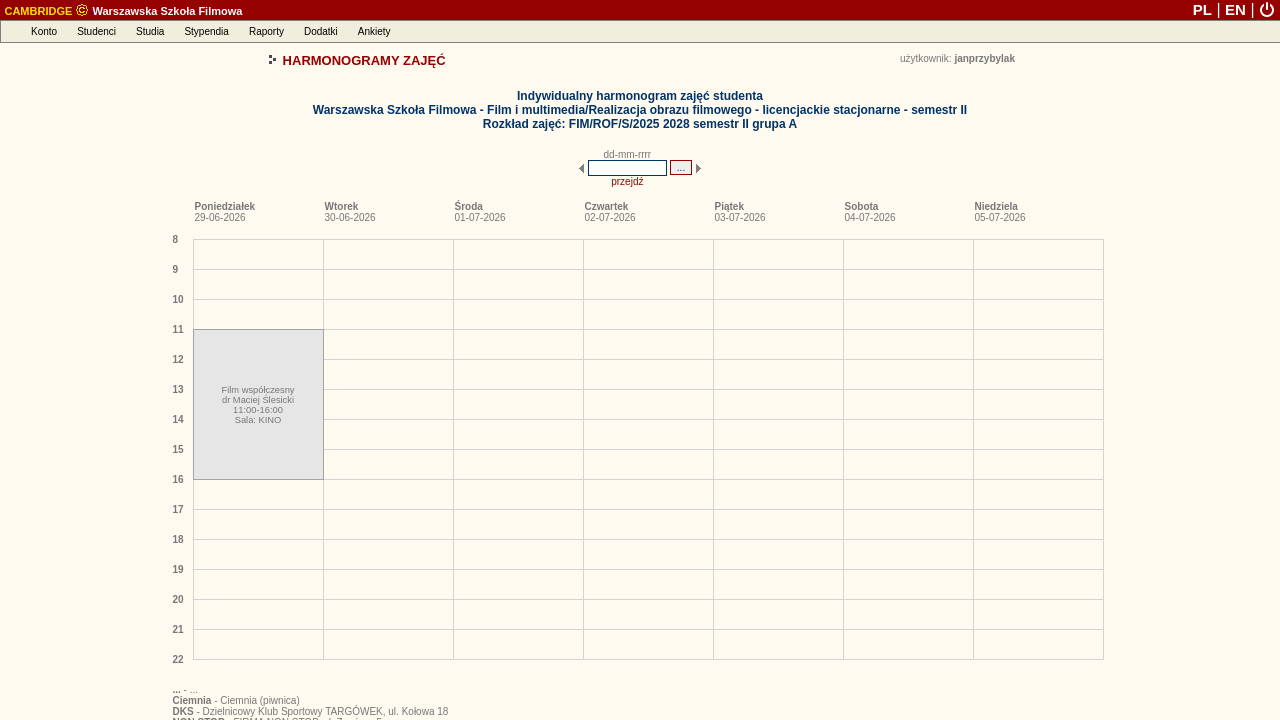
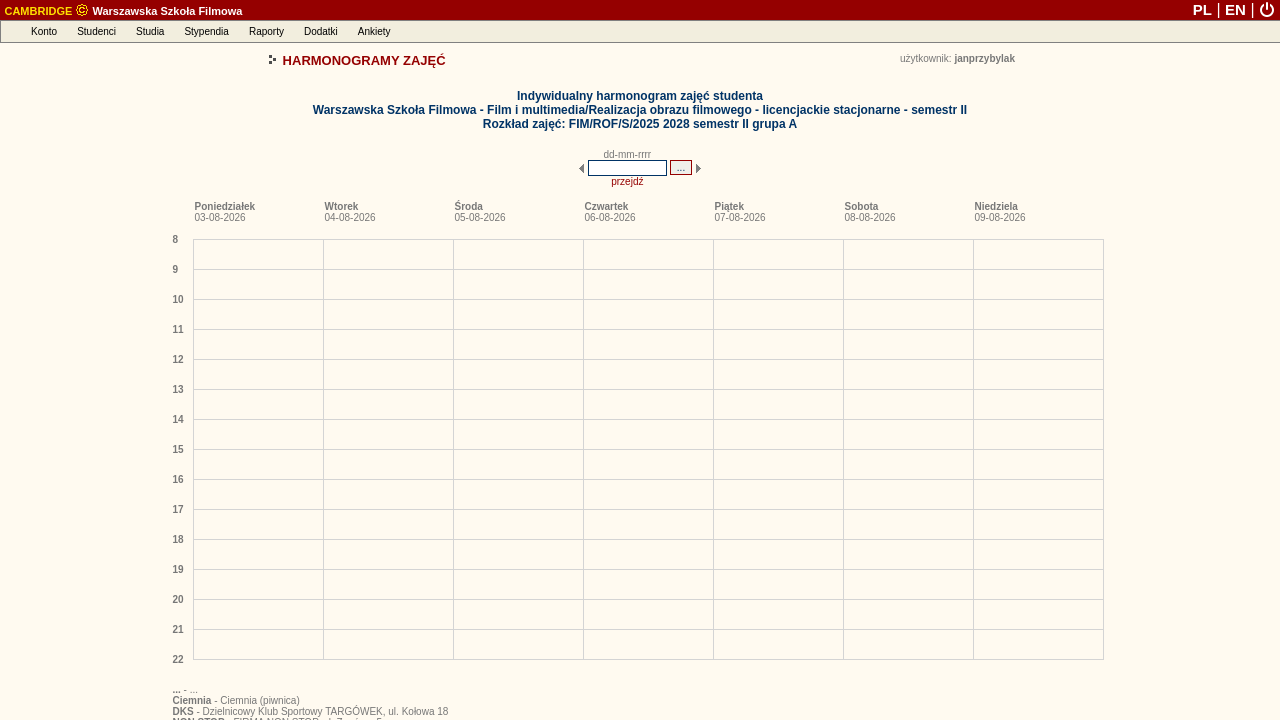
deploy: 8388f10947971c2f889917b94371ad6a4cd86213

Changed region(s): [[0.125, 0.4583, 0.25, 0.6722]]

diff --git a/debug_harmonogram_page.html b/debug_harmonogram_page.html
@@ -163,8 +163,8 @@
 
 
 
-<link rel="stylesheet" type="text/css" href="/palio/html.run?_Instance=cambridge&amp;_PageID=4&amp;_SessionID=1698935&amp;_SessionKey=1306521212&amp;ZoomView=&amp;DisplayMode=&amp;_CheckSum=-1760309600">
-<script language="javascript" type="text/javascript" src="/palio/html.run?_Instance=cambridge&amp;_PageID=5&amp;_SessionID=1698935&amp;_SessionKey=1306521212&amp;_CheckSum=-224332376"></script>
+<link rel="stylesheet" type="text/css" href="/palio/html.run?_Instance=cambridge&amp;_PageID=4&amp;_SessionID=1699066&amp;_SessionKey=678704164&amp;ZoomView=&amp;DisplayMode=&amp;_CheckSum=1441676194">
+<script language="javascript" type="text/javascript" src="/palio/html.run?_Instance=cambridge&amp;_PageID=5&amp;_SessionID=1699066&amp;_SessionKey=678704164&amp;_CheckSum=1323799240"></script>
 
 
 
@@ -354,9 +354,9 @@ CambridgeMenuBar = new jsDOMenuBar("absolute", true)
 
 AccountMenu=new jsDOMenu(200, "", "absolute", false);
 
-AccountMenu.addMenuItem(new menuItem("Zmiana hasła", "", "/palio/html.run?_Instance=cambridge&amp;_PageID=11&amp;_SessionID=1698935&amp;_SessionKey=1306521212&amp;_CheckSum=1804701465"));
+AccountMenu.addMenuItem(new menuItem("Zmiana hasła", "", "/palio/html.run?_Instance=cambridge&amp;_PageID=11&amp;_SessionID=1699066&amp;_SessionKey=678704164&amp;_CheckSum=-273316041"));
 
-  AccountMenu.addMenuItem(new menuItem("Komunikator", "", "/palio/html.run?_Instance=cambridge&amp;_PageID=180&amp;_SessionID=1698935&amp;_SessionKey=1306521212&amp;_CheckSum=999741684"));
+  AccountMenu.addMenuItem(new menuItem("Komunikator", "", "/palio/html.run?_Instance=cambridge&amp;_PageID=180&amp;_SessionID=1699066&amp;_SessionKey=678704164&amp;_CheckSum=1363285500"));
 
 
 
@@ -369,7 +369,7 @@ AccountMenu.addMenuItem(new menuItem("Yammer", "", "https://www.yammer.com/onlin
 
 AccountMenu.addMenuItem(new menuItem("-"));
 
-AccountMenu.addMenuItem(new menuItem("Wylogowanie", "", "https://student.szkolafilmowa.pl/palio/html.run?_Instance=cambridge&amp;_PageID=10012&amp;_Action=Logout&amp;_SessionID=1698935&amp;_SessionKey=1306521212"));
+AccountMenu.addMenuItem(new menuItem("Wylogowanie", "", "https://student.szkolafilmowa.pl/palio/html.run?_Instance=cambridge&amp;_PageID=10012&amp;_Action=Logout&amp;_SessionID=1699066&amp;_SessionKey=678704164"));
 
 CambridgeMenuBar.addMenuBarItem(new menuBarItem("Konto", AccountMenu));
 
@@ -382,12 +382,12 @@ StudentsMenu=new jsDOMenu(320, "", "absolute", false);
 
 
 
-StudentsMenu.addMenuItem(new menuItem("Moje dane", "", "/palio/html.run?_Instance=cambridge&amp;_PageID=185&amp;_SessionID=1698935&amp;_SessionKey=1306521212&amp;_CheckSum=-63419249"));
+StudentsMenu.addMenuItem(new menuItem("Moje dane", "", "/palio/html.run?_Instance=cambridge&amp;_PageID=185&amp;_SessionID=1699066&amp;_SessionKey=678704164&amp;_CheckSum=220611329"));
 
 
 
 
-StudentsMenu.addMenuItem(new menuItem("Moje indeksy", "", "/palio/html.run?_Instance=cambridge&amp;_PageID=186&amp;_SessionID=1698935&amp;_SessionKey=1306521212&amp;_CheckSum=-1994038354"));
+StudentsMenu.addMenuItem(new menuItem("Moje indeksy", "", "/palio/html.run?_Instance=cambridge&amp;_PageID=186&amp;_SessionID=1699066&amp;_SessionKey=678704164&amp;_CheckSum=851069954"));
 
 
 
@@ -426,7 +426,7 @@ StudiesMenu=new jsDOMenu(250, "", "absolute", false);
 
 
 
-StudiesMenu.addMenuItem(new menuItem("Moje plany studiów", "", "/palio/html.run?_Instance=cambridge&amp;_PageID=258&amp;_SessionID=1698935&amp;_SessionKey=1306521212&amp;_CheckSum=1994520328"));
+StudiesMenu.addMenuItem(new menuItem("Moje plany studiów", "", "/palio/html.run?_Instance=cambridge&amp;_PageID=258&amp;_SessionID=1699066&amp;_SessionKey=678704164&amp;_CheckSum=-405740184"));
 
 
 
@@ -434,13 +434,13 @@ StudiesMenu.addMenuItem(new menuItem("Moje plany studiów", "", "/palio/html.run
 
 
 
-StudiesMenu.addMenuItem(new menuItem("Harmonogramy zajęć", "", "/palio/html.run?_Instance=cambridge&amp;_PageID=95&amp;_SessionID=1698935&amp;_SessionKey=1306521212&amp;_CheckSum=619991453"));
+StudiesMenu.addMenuItem(new menuItem("Harmonogramy zajęć", "", "/palio/html.run?_Instance=cambridge&amp;_PageID=95&amp;_SessionID=1699066&amp;_SessionKey=678704164&amp;_CheckSum=-311532493"));
 
-StudiesMenu.addMenuItem(new menuItem("Harmonogramy moich zajęć", "", "/palio/html.run?_Instance=cambridge&amp;_PageID=191&amp;_SessionID=1698935&amp;_SessionKey=1306521212&amp;_CheckSum=-650527532"));
+StudiesMenu.addMenuItem(new menuItem("Harmonogramy moich zajęć", "", "/palio/html.run?_Instance=cambridge&amp;_PageID=191&amp;_SessionID=1699066&amp;_SessionKey=678704164&amp;_CheckSum=63125020"));
 
-StudiesMenu.addMenuItem(new menuItem("Harmonogramy innych zajęć", "", "/palio/html.run?_Instance=cambridge&amp;_PageID=248&amp;_SessionID=1698935&amp;_SessionKey=1306521212&amp;_CheckSum=1714170439"));
+StudiesMenu.addMenuItem(new menuItem("Harmonogramy innych zajęć", "", "/palio/html.run?_Instance=cambridge&amp;_PageID=248&amp;_SessionID=1699066&amp;_SessionKey=678704164&amp;_CheckSum=1524878921"));
 
-StudiesMenu.addMenuItem(new menuItem("Harmonogramy zajętości sal", "", "/palio/html.run?_Instance=cambridge&amp;_PageID=269&amp;_SessionID=1698935&amp;_SessionKey=1306521212&amp;_CheckSum=344251112"));
+StudiesMenu.addMenuItem(new menuItem("Harmonogramy zajętości sal", "", "/palio/html.run?_Instance=cambridge&amp;_PageID=269&amp;_SessionID=1699066&amp;_SessionKey=678704164&amp;_CheckSum=-1705900664"));
 
 
 
@@ -470,9 +470,9 @@ CambridgeMenuBar.addMenuBarItem(new menuBarItem("Studia", StudiesMenu));
 ScholarshipsMenu=new jsDOMenu(230, "", "absolute", false);
 
 
-ScholarshipsMenu.addMenuItem(new menuItem("Moje stypendia", "", "/palio/html.run?_Instance=cambridge&amp;_PageID=187&amp;_SessionID=1698935&amp;_SessionKey=1306521212&amp;_CheckSum=370309837"));
+ScholarshipsMenu.addMenuItem(new menuItem("Moje stypendia", "", "/palio/html.run?_Instance=cambridge&amp;_PageID=187&amp;_SessionID=1699066&amp;_SessionKey=678704164&amp;_CheckSum=1481528579"));
 
-ScholarshipsMenu.addMenuItem(new menuItem("Mój numer rachunku", "", "/palio/html.run?_Instance=cambridge&amp;_PageID=380&amp;_SessionID=1698935&amp;_SessionKey=1306521212&amp;_CheckSum=1201565618"));
+ScholarshipsMenu.addMenuItem(new menuItem("Mój numer rachunku", "", "/palio/html.run?_Instance=cambridge&amp;_PageID=380&amp;_SessionID=1699066&amp;_SessionKey=678704164&amp;_CheckSum=1923985278"));
 
 
 
@@ -482,9 +482,9 @@ ScholarshipsMenu.addMenuItem(new menuItem("Mój numer rachunku", "", "/palio/htm
 ScholarshipsMenu.addMenuItem(new menuItem("-"));
 
 
-ScholarshipsMenu.addMenuItem(new menuItem("Fundusze stypendialne", "", "/palio/html.run?_Instance=cambridge&amp;_PageID=54&amp;_SessionID=1698935&amp;_SessionKey=1306521212&amp;_CheckSum=1429211002"));
+ScholarshipsMenu.addMenuItem(new menuItem("Fundusze stypendialne", "", "/palio/html.run?_Instance=cambridge&amp;_PageID=54&amp;_SessionID=1699066&amp;_SessionKey=678704164&amp;_CheckSum=-1809449290"));
 
-ScholarshipsMenu.addMenuItem(new menuItem("Rodzaje stypendiów", "", "/palio/html.run?_Instance=cambridge&amp;_PageID=55&amp;_SessionID=1698935&amp;_SessionKey=1306521212&amp;_CheckSum=-501408103"));
+ScholarshipsMenu.addMenuItem(new menuItem("Rodzaje stypendiów", "", "/palio/html.run?_Instance=cambridge&amp;_PageID=55&amp;_SessionID=1699066&amp;_SessionKey=678704164&amp;_CheckSum=-1178990665"));
 
 
 
@@ -495,7 +495,7 @@ CambridgeMenuBar.addMenuBarItem(new menuBarItem("Stypendia", ScholarshipsMenu));
 ReportsMenu=new jsDOMenu(200, "", "absolute", false);
 
 
-ReportsMenu.addMenuItem(new menuItem("Generowanie raportów", "", "/palio/html.run?_Instance=cambridge&amp;_PageID=68&amp;_SessionID=1698935&amp;_SessionKey=1306521212&amp;_CheckSum=-1717948233"));
+ReportsMenu.addMenuItem(new menuItem("Generowanie raportów", "", "/palio/html.run?_Instance=cambridge&amp;_PageID=68&amp;_SessionID=1699066&amp;_SessionKey=678704164&amp;_CheckSum=-1218233895"));
 
 
 
@@ -505,7 +505,7 @@ CambridgeMenuBar.addMenuBarItem(new menuBarItem("Raporty", ReportsMenu));
 
 AdditionalsMenu=new jsDOMenu(200, "", "absolute", false);
 
-AdditionalsMenu.addMenuItem(new menuItem("Forum internetowe", "", "/palio/html.run?_Instance=cambridge&amp;_PageID=8001&amp;_SessionID=1698935&amp;_SessionKey=1306521212&amp;_CheckSum=1833455840"));
+AdditionalsMenu.addMenuItem(new menuItem("Forum internetowe", "", "/palio/html.run?_Instance=cambridge&amp;_PageID=8001&amp;_SessionID=1699066&amp;_SessionKey=678704164&amp;_CheckSum=281800848"));
 
 
 
@@ -539,7 +539,7 @@ PollsMenu=new jsDOMenu(225, "", "absolute", false);
 
 
 
-PollsMenu.addMenuItem(new menuItem("Wypełnianie ankiet", "", "/palio/html.run?_Instance=cambridge&amp;_PageID=227&amp;_SessionID=1698935&amp;_SessionKey=1306521212&amp;_CheckSum=-1210877530"));
+PollsMenu.addMenuItem(new menuItem("Wypełnianie ankiet", "", "/palio/html.run?_Instance=cambridge&amp;_PageID=227&amp;_SessionID=1699066&amp;_SessionKey=678704164&amp;_CheckSum=460691210"));
 
 
 CambridgeMenuBar.addMenuBarItem(new menuBarItem("Ankiety", PollsMenu));
@@ -576,7 +576,7 @@ CambridgeMenuBar.moveTo(0,20);
 <table width="100%" border="0" cellspacing="0" cellpadding="0" align="center">
 <tbody><tr class="top_belt">
 
-<td align="left" height="20"><b>&nbsp;<a class="belt" href="/palio/html.run?_Instance=cambridge&amp;_PageID=6&amp;_SessionID=1698935&amp;_SessionKey=1306521212&amp;_CheckSum=2140015815"><span class="belt_application">CAMBRIDGE</span> <img src="/palio/html.media?_Instance=cambridge&amp;_Option=Palio&amp;_ID=51&amp;_CheckSum=684598873" width="14" height="14" border="0" style="position:relative;top:-2px;vertical-align:bottom"> Warszawska Szkoła Filmowa</a></b></td>
+<td align="left" height="20"><b>&nbsp;<a class="belt" href="/palio/html.run?_Instance=cambridge&amp;_PageID=6&amp;_SessionID=1699066&amp;_SessionKey=678704164&amp;_CheckSum=1954257865"><span class="belt_application">CAMBRIDGE</span> <img src="/palio/html.media?_Instance=cambridge&amp;_Option=Palio&amp;_ID=51&amp;_CheckSum=684598873" width="14" height="14" border="0" style="position:relative;top:-2px;vertical-align:bottom"> Warszawska Szkoła Filmowa</a></b></td>
 <td align="right">
 
 
@@ -587,13 +587,13 @@ CambridgeMenuBar.moveTo(0,20);
 
 
 
-<a href="/palio/html.run?_Instance=cambridge&amp;_PageID=6&amp;_SessionID=1698935&amp;_SessionKey=1306521212&amp;SetLanguage=pl&amp;_CheckSum=-653435405" class="belt" style="font-size:15px;line-height:18px;text-decoration:none" title="polski"><b>PL</b></a>
+<a href="/palio/html.run?_Instance=cambridge&amp;_PageID=6&amp;_SessionID=1699066&amp;_SessionKey=678704164&amp;SetLanguage=pl&amp;_CheckSum=285416369" class="belt" style="font-size:15px;line-height:18px;text-decoration:none" title="polski"><b>PL</b></a>
 <span class="belt" style="font-size:16px">|</span>
-<a href="/palio/html.run?_Instance=cambridge&amp;_PageID=6&amp;_SessionID=1698935&amp;_SessionKey=1306521212&amp;SetLanguage=en&amp;_CheckSum=1239347878" class="belt" style="font-size:15px;line-height:18px;text-decoration:none" title="english"><b>EN</b></a>
+<a href="/palio/html.run?_Instance=cambridge&amp;_PageID=6&amp;_SessionID=1699066&amp;_SessionKey=678704164&amp;SetLanguage=en&amp;_CheckSum=-2116767644" class="belt" style="font-size:15px;line-height:18px;text-decoration:none" title="english"><b>EN</b></a>
 <span class="belt" style="font-size:16px">|</span>
 
 
-<img src="/palio/html.media?_Instance=cambridge&amp;_Option=Palio&amp;_ID=94&amp;_CheckSum=-1316787974" style="cursor:pointer;vertical-align:bottom;margin-bottom:2px;margin-right:5px" alt="Wyloguj" title="Wyloguj" onclick="if(confirm('Czy na pewno chcesz się wylogować?'))window.location='https://student.szkolafilmowa.pl/palio/html.run?_Instance=cambridge&amp;_PageID=10012&amp;_Action=Logout&amp;_SessionID=1698935&amp;_SessionKey=1306521212'">
+<img src="/palio/html.media?_Instance=cambridge&amp;_Option=Palio&amp;_ID=94&amp;_CheckSum=-1316787974" style="cursor:pointer;vertical-align:bottom;margin-bottom:2px;margin-right:5px" alt="Wyloguj" title="Wyloguj" onclick="if(confirm('Czy na pewno chcesz się wylogować?'))window.location='https://student.szkolafilmowa.pl/palio/html.run?_Instance=cambridge&amp;_PageID=10012&amp;_Action=Logout&amp;_SessionID=1699066&amp;_SessionKey=678704164'">
 </td>
 
 </tr>
@@ -2315,16 +2315,16 @@ document.schedule_scroll_form.submit();
 }
 function goForward()
 {
-document.schedule_scroll_form._firstDayOfWeek.value = '06-07-2026';
+document.schedule_scroll_form._firstDayOfWeek.value = '10-08-2026';
 document.schedule_scroll_form.submit();
 }
 function goBackward()
 {
-document.schedule_scroll_form._firstDayOfWeek.value = '27-06-2026';
+document.schedule_scroll_form._firstDayOfWeek.value = '01-08-2026';
 document.schedule_scroll_form.submit();
 }
 </script>
-<form method="post" name="schedule_scroll_form" id="schedule_scroll_form" action="/palio/html.run?_Instance=cambridge&amp;_PageID=191&amp;_SessionID=1698935&amp;_SessionKey=1306521212&amp;_RowID=7265&amp;_RowIDType=I&amp;_CheckSum=-1522067187" onsubmit="return checkFrm_schedule_scroll_form(this)">
+<form method="post" name="schedule_scroll_form" id="schedule_scroll_form" action="/palio/html.run?_Instance=cambridge&amp;_PageID=191&amp;_SessionID=1699066&amp;_SessionKey=678704164&amp;_RowID=7265&amp;_RowIDType=I&amp;_CheckSum=-461379387" onsubmit="return checkFrm_schedule_scroll_form(this)">
 <div style="display:none;"><input type="hidden" name="_formSubmitted" value="yes"></div>
 <input type="hidden" name="_firstDayOfWeek">
 <table cellspacing="0" cellpadding="0" border="0" align="center">
@@ -3102,22 +3102,6 @@ return true;
 
 
 
-
-
-
-
-
-
-
-
-
-
-
-
-
-
-
-
 <br>
 
 
@@ -3129,9 +3113,6 @@ return true;
 
 
 
- 
- 
- 
 
 
 
@@ -3149,52 +3130,6 @@ return true;
 
 
 
-
-
-
-
-
-
-
-
-
-
-
-
-
-
-
-
-
-
-
-
-
-
-
-
-
-
-
-
-
-
-
-
-
-
-
-
-
-
-
-
-
-
-
-
-
-  
 
 
 
@@ -3688,7 +3623,7 @@ tipDivElement.style.visibility="hidden"
 <tbody><tr><td class="font">
 <b class="font">Poniedziałek</b><br>
 
-<span class="font">29-06-2026</span>
+<span class="font">03-08-2026</span>
 </td></tr>
 </tbody></table>
 </div>
@@ -3703,7 +3638,7 @@ tipDivElement.style.visibility="hidden"
 <tbody><tr><td class="font">
 <b class="font">Wtorek</b><br>
 
-<span class="font">30-06-2026</span>
+<span class="font">04-08-2026</span>
 </td></tr>
 </tbody></table>
 </div>
@@ -3718,7 +3653,7 @@ tipDivElement.style.visibility="hidden"
 <tbody><tr><td class="font">
 <b class="font">Środa</b><br>
 
-<span class="font">01-07-2026</span>
+<span class="font">05-08-2026</span>
 </td></tr>
 </tbody></table>
 </div>
@@ -3733,7 +3668,7 @@ tipDivElement.style.visibility="hidden"
 <tbody><tr><td class="font">
 <b class="font">Czwartek</b><br>
 
-<span class="font">02-07-2026</span>
+<span class="font">06-08-2026</span>
 </td></tr>
 </tbody></table>
 </div>
@@ -3748,7 +3683,7 @@ tipDivElement.style.visibility="hidden"
 <tbody><tr><td class="font">
 <b class="font">Piątek</b><br>
 
-<span class="font">03-07-2026</span>
+<span class="font">07-08-2026</span>
 </td></tr>
 </tbody></table>
 </div>
@@ -3763,7 +3698,7 @@ tipDivElement.style.visibility="hidden"
 <tbody><tr><td class="font">
 <b class="font">Sobota</b><br>
 
-<span class="font">04-07-2026</span>
+<span class="font">08-08-2026</span>
 </td></tr>
 </tbody></table>
 </div>
@@ -3778,7 +3713,7 @@ tipDivElement.style.visibility="hidden"
 <tbody><tr><td class="font">
 <b class="font">Niedziela</b><br>
 
-<span class="font">05-07-2026</span>
+<span class="font">09-08-2026</span>
 </td></tr>
 </tbody></table>
 </div>
@@ -3787,40 +3722,6 @@ tipDivElement.style.visibility="hidden"
 
 
 
-
-
-
-
-
-
-
-
-
-
-
-
-
-
-
-
-
-
-
-
-<div style="
-position:absolute;
-top:90;
-left:20;
-width:129;
-height:149.00;
-layer-background-color:#E6E6E6;
-background-color:#E6E6E6;
-border:1px solid #A4A4A4;
-z-index:0;" onmouseover="showtip(&quot;<table><tr><td nowrap class=font>Film współczesny<br>dr Maciej Ślesicki<br>11:00-16:00<br>Sala: KINO<br>Plan: FIM/ROF/S/2025 2028<br>semestr II</td></tr></table>&quot;);" onmouseout="hidetip();">
-<table cellspacing="0" cellpadding="0" align="center" width="129">
-<tbody><tr><td width="129" align="center" class="font" valign="middle" height="149.00"><span style="font-size:7pt;">Film współczesny<br>dr Maciej Ślesicki<br>11:00-16:00<br>Sala: KINO</span></td></tr>
-</tbody></table>
-</div>
 
 
 </div>
@@ -3847,8 +3748,8 @@ z-index:0;" onmouseover="showtip(&quot;<table><tr><td nowrap class=font>Film wsp
 <td align="right">
 <table cellspacing="0" cellpadding="2" border="0">
 <tbody><tr>
-<td valign="middle"><a class="link" href="/palio/html.run?_Instance=cambridge&amp;_PageID=96&amp;_SessionID=1698935&amp;_SessionKey=1306521212&amp;_RowID=7265&amp;_RowIDType=I&amp;_firstDayOfWeek=29-06-2026&amp;_CheckSum=-1972362166" target="_blank">drukuj</a></td>
-<td valign="middle"><a class="link" href="/palio/html.run?_Instance=cambridge&amp;_PageID=96&amp;_SessionID=1698935&amp;_SessionKey=1306521212&amp;_RowID=7265&amp;_RowIDType=I&amp;_firstDayOfWeek=29-06-2026&amp;_CheckSum=-1972362166" target="_blank"><img src="/palio/html.media?_Instance=cambridge&amp;_Option=Palio&amp;_ID=26&amp;_CheckSum=1936112049" awidth="16" height="14" alt="drukuj" title="drukuj" border="0"></a></td>
+<td valign="middle"><a class="link" href="/palio/html.run?_Instance=cambridge&amp;_PageID=96&amp;_SessionID=1699066&amp;_SessionKey=678704164&amp;_RowID=7265&amp;_RowIDType=I&amp;_firstDayOfWeek=03-08-2026&amp;_CheckSum=-981956984" target="_blank">drukuj</a></td>
+<td valign="middle"><a class="link" href="/palio/html.run?_Instance=cambridge&amp;_PageID=96&amp;_SessionID=1699066&amp;_SessionKey=678704164&amp;_RowID=7265&amp;_RowIDType=I&amp;_firstDayOfWeek=03-08-2026&amp;_CheckSum=-981956984" target="_blank"><img src="/palio/html.media?_Instance=cambridge&amp;_Option=Palio&amp;_ID=26&amp;_CheckSum=1936112049" awidth="16" height="14" alt="drukuj" title="drukuj" border="0"></a></td>
 </tr>
 </tbody></table>
 </td>
@@ -3880,7 +3781,7 @@ z-index:0;" onmouseover="showtip(&quot;<table><tr><td nowrap class=font>Film wsp
 
 
 
-<input type="button" name="jump_action" value="Powrót do listy harmonogramów zajęć" class="button" onclick="window.location='/palio/html.run?_Instance=cambridge&amp;_PageID=191&amp;_SessionID=1698935&amp;_SessionKey=1306521212&amp;_CheckSum=-650527532'">
+<input type="button" name="jump_action" value="Powrót do listy harmonogramów zajęć" class="button" onclick="window.location='/palio/html.run?_Instance=cambridge&amp;_PageID=191&amp;_SessionID=1699066&amp;_SessionKey=678704164&amp;_CheckSum=63125020'">
 
 
 
